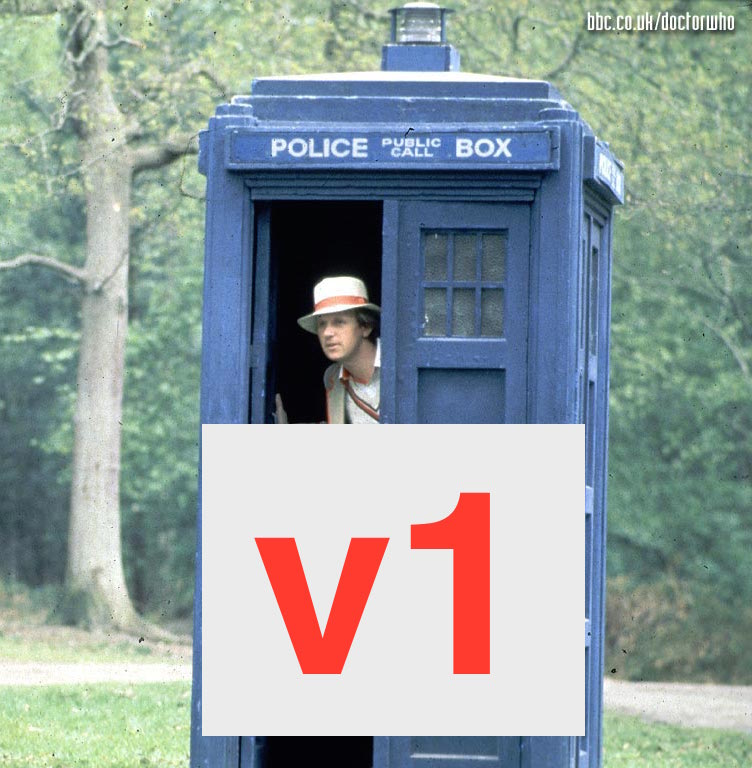
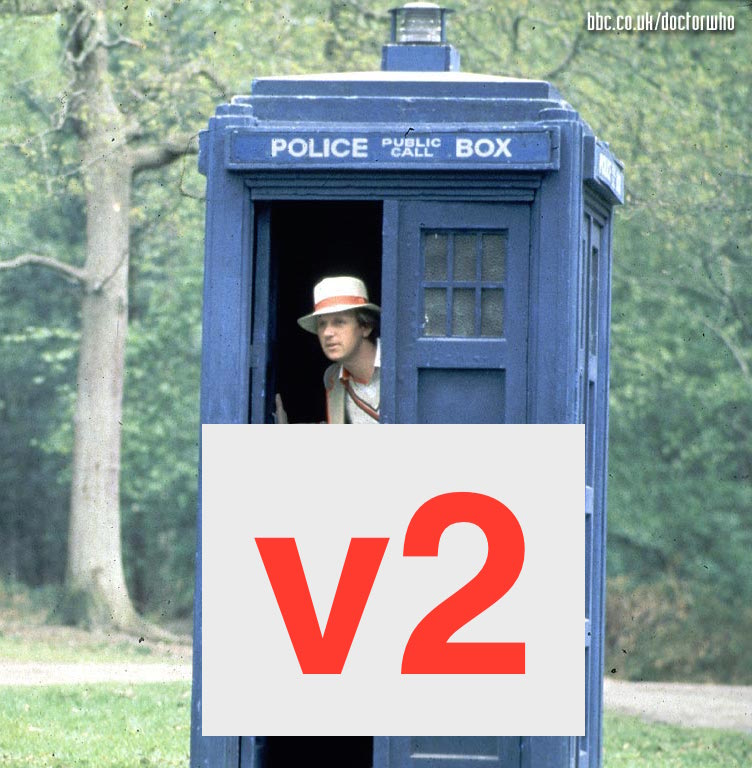
The long path to release 2, codename Blue Sky, starts here.

Changed region(s): [[0.5199, 0.625, 0.7035, 0.875]]

diff --git a/stuff/afolder/File4.m b/stuff/afolder/File4.m
@@ -5,5 +5,4 @@
 //  Created by Ben Staveley-Taylor on 14/04/2017.
 //  Copyright © 2017 Oracle and/or its affiliates. All rights reserved.
 //
-
-// This is version 1 of the file
+// This is version 2 of the file on branch bluesky

diff --git a/stuff/File1.m b/stuff/File1.m
@@ -6,4 +6,4 @@
 //  Copyright © 2017 Oracle and/or its affiliates. All rights reserved.
 //
 
-// This is version 1 of the file
+// This is version 2 of the file on branch bluesky

diff --git a/stuff/File2.m b/stuff/File2.m
@@ -6,4 +6,4 @@
 //  Copyright © 2017 Oracle and/or its affiliates. All rights reserved.
 //
 
-// This is version 1 of the file
+// This is version 2 of the file on branch bluesky

diff --git a/stuff/afolder/File3.m b/stuff/afolder/File3.m
@@ -6,4 +6,4 @@
 //  Copyright © 2017 Oracle and/or its affiliates. All rights reserved.
 //
 
-// This is version 1 of the file
+// This is version 2 of the file on branch bluesky
